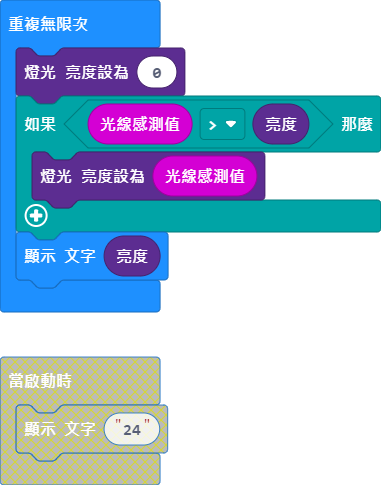
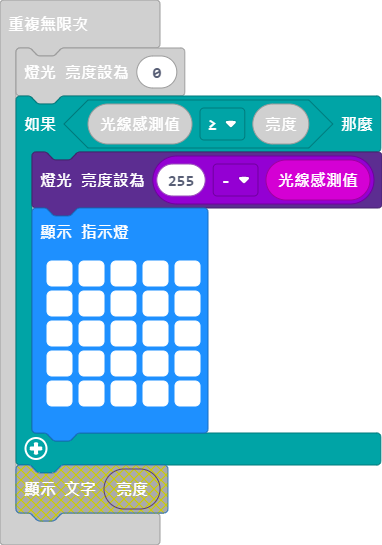
更新 main.blocks, main.ts

diff --git a/main.ts b/main.ts
@@ -3,8 +3,14 @@ input.onButtonPressed(Button.A, function () {
 })
 basic.forever(function () {
     led.setBrightness(0)
-    if (input.lightLevel() > led.brightness()) {
-        led.setBrightness(input.lightLevel())
+    if (input.lightLevel() >= led.brightness()) {
+        led.setBrightness(255 - input.lightLevel())
+        basic.showLeds(`
+            # # # # #
+            # # # # #
+            # # # # #
+            # # # # #
+            # # # # #
+            `)
     }
-    basic.showString("" + (led.brightness()))
 })
